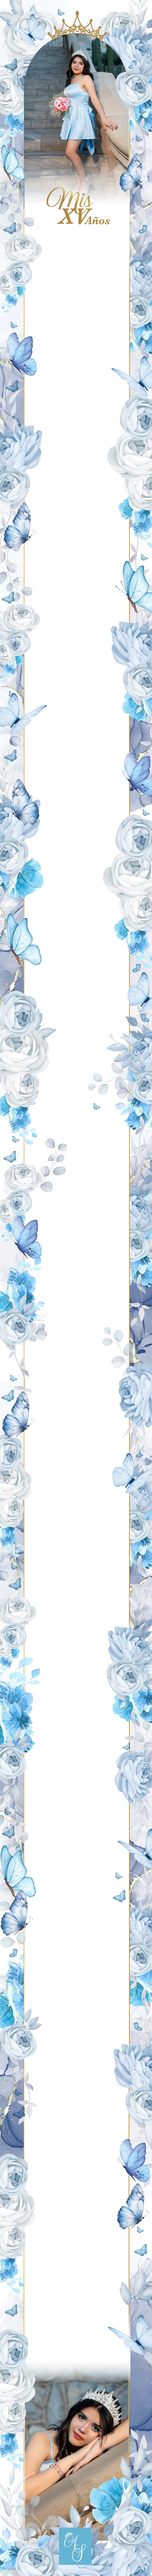
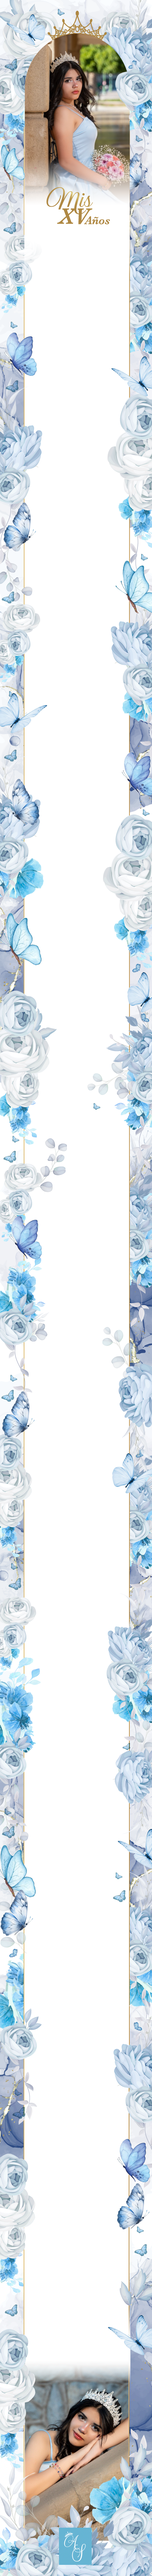
cambio en invitacion

Changed region(s): [[0.0933, 0.0, 1.0, 0.1249], [0.0, 0.0312, 0.0622, 0.0936]]

diff --git a/invi_marzo_06/invitacion_xv/fullarte_azulcielo_AnnaSophia/invitacion.html b/invi_marzo_06/invitacion_xv/fullarte_azulcielo_AnnaSophia/invitacion.html
@@ -1243,7 +1243,7 @@ el inicio de una nueva etapa.</p>
     <div class="social-item">
                 
                
-        <div align="center"><img src="img/galeria/1.jpeg" style="border-radius: 15px" width="100%"></div>
+        <div align="center"><img src="img/galeria/3.jpeg" style="border-radius: 15px" width="100%"></div>
         
         <!-- Agregar botón "Ver Galería" -->
         <div class="gallery-button-container">
@@ -1740,7 +1740,7 @@ celebres conmigo!.</p>
     <div id="galleryModal" class="gallery-modal">
         <button id="closeGalleryBtn" class="gallery-close-btn">&times;</button>
         <div class="gallery-container">
-            <img id="mainImage" class="gallery-main-image" src="img/galeria/1.jpeg" alt="Imagen Principal">
+            <img id="mainImage" class="gallery-main-image" src="img/galeria/3.jpeg" alt="Imagen Principal">
             <button id="prevImage" class="gallery-arrow gallery-prev">&#10094;</button>
             <button id="nextImage" class="gallery-arrow gallery-next">&#10095;</button>
         </div>
@@ -1754,22 +1754,21 @@ celebres conmigo!.</p>
         // Array con las rutas de tus fotos
         // IMPORTANTE: Asegúrate de que los archivos existan en la carpeta fotos/
        const galleryImages = [
-    'img/galeria/1.jpeg',
-    'img/galeria/2.jpeg',
+   
     'img/galeria/3.jpeg',
     'img/galeria/4.jpeg',
-    'img/galeria/5.jpeg',
-    'img/galeria/6.jpeg',
+   
+    
     'img/galeria/7.jpeg',
     'img/galeria/8.jpeg',
-    'img/galeria/9.jpeg',
-    'img/galeria/10.jpeg',
-    'img/galeria/11.jpeg',
+    
+    
+    
     'img/galeria/12.jpeg',
-    'img/galeria/13.jpeg',
+   
     'img/galeria/14.jpeg',
-    'img/galeria/15.jpeg',
-    'img/galeria/16.jpeg',
+   
+    
     'img/galeria/17.jpeg'
     
     // Agrega más fotos según necesites
